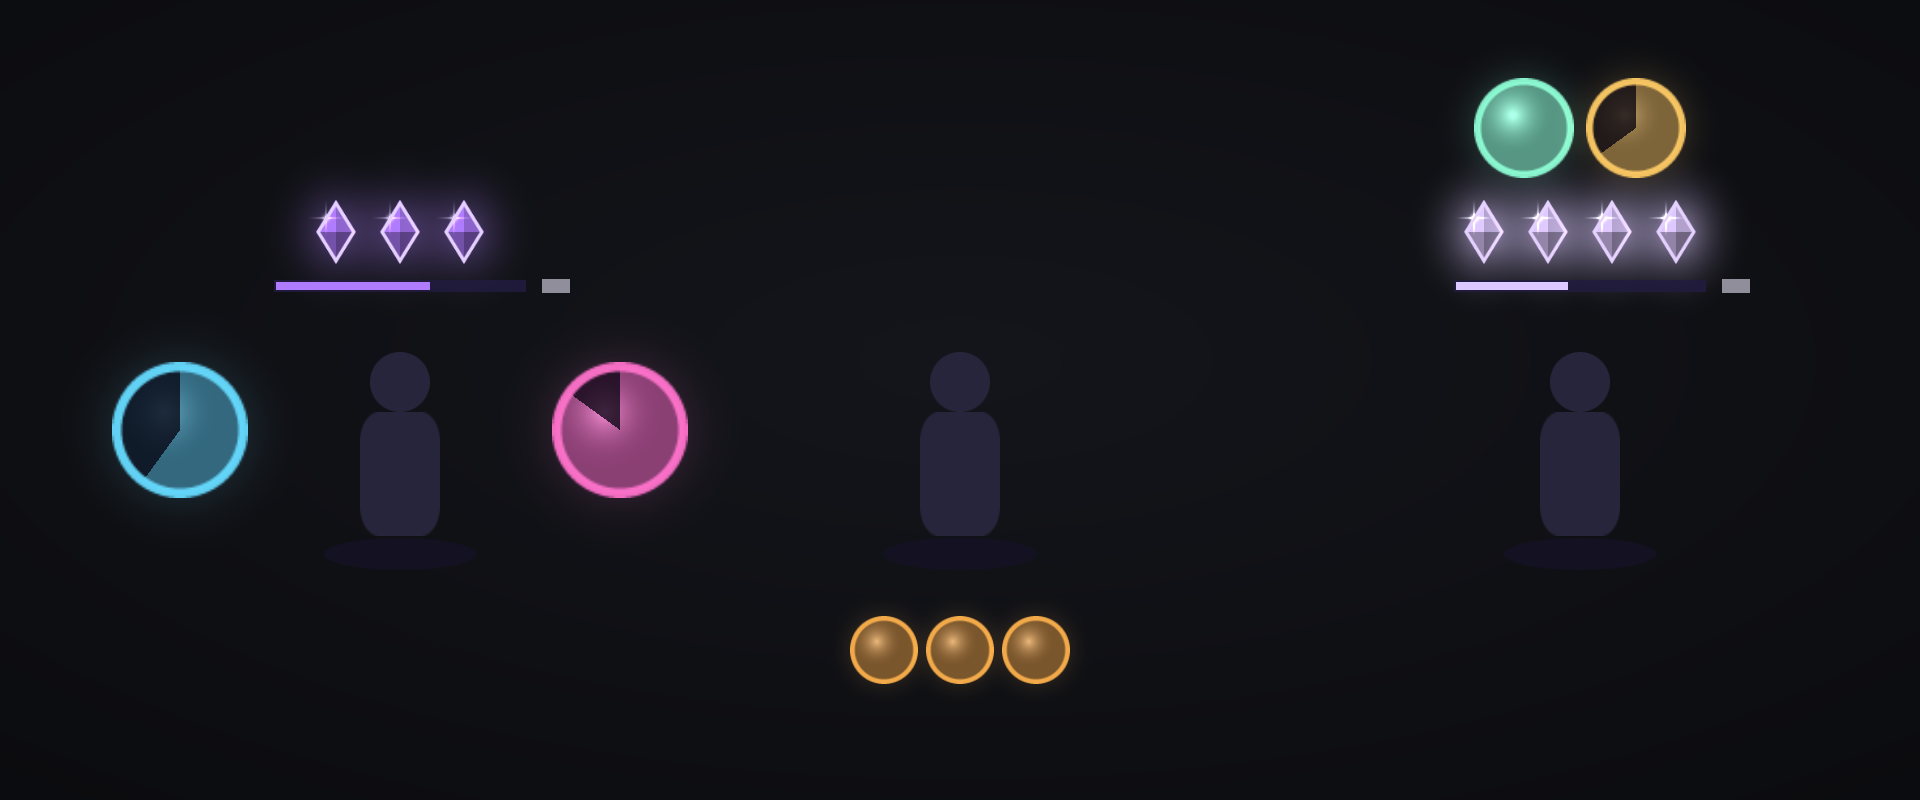
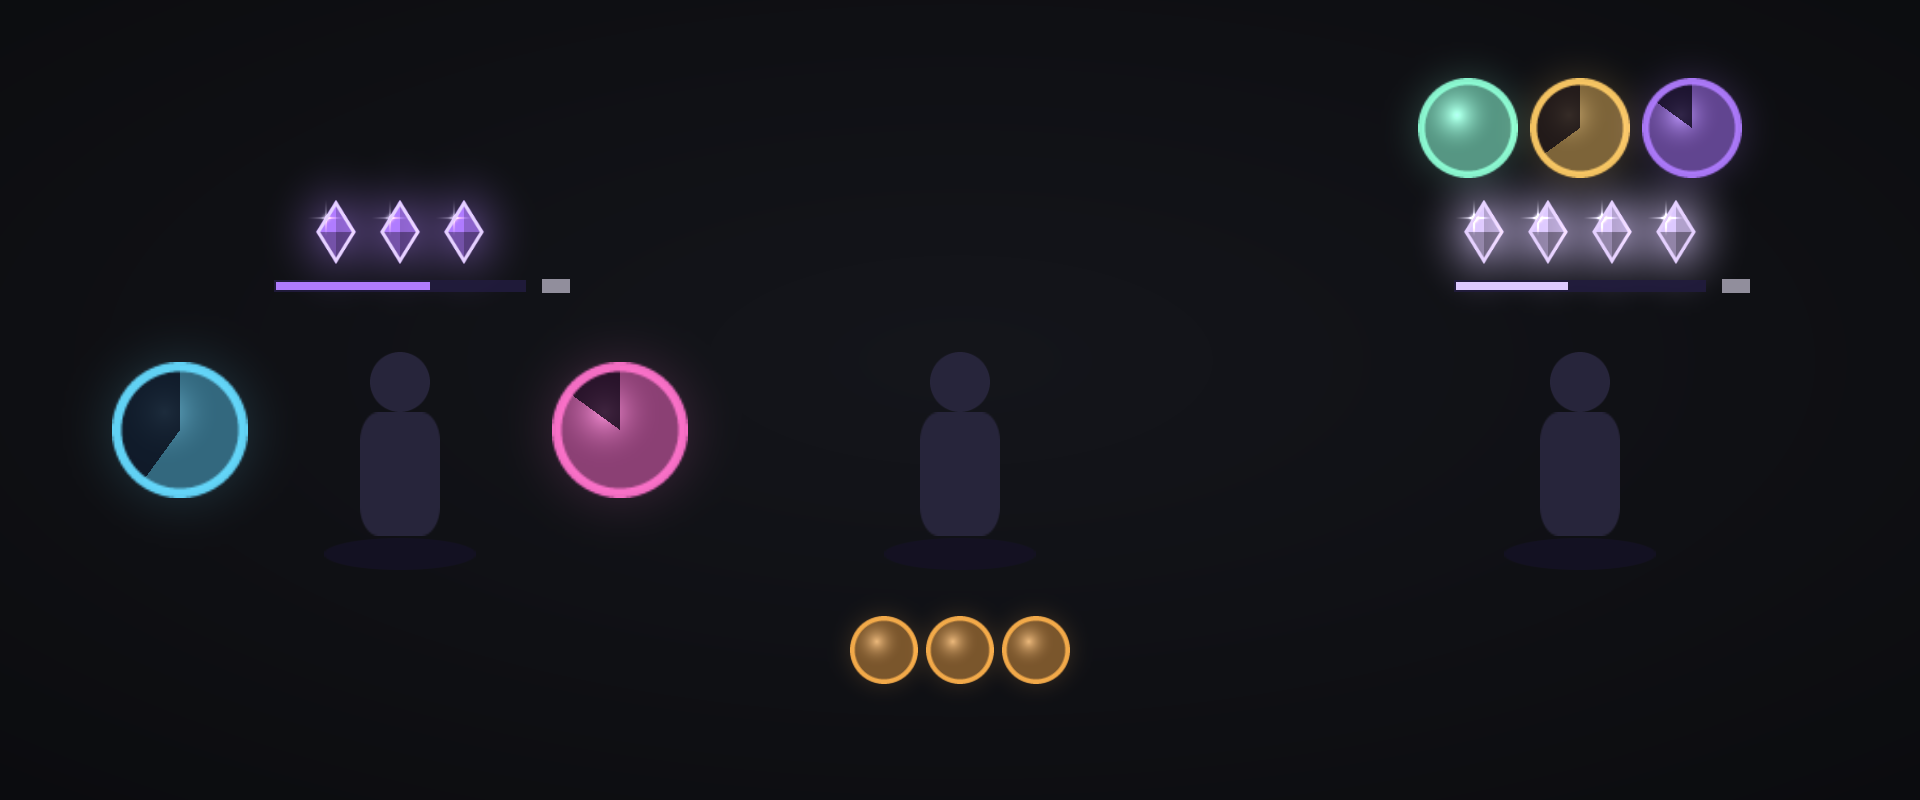
Arcanum 2.1.0: Arcane Power shown while active, sounds in the demo
- Arcane Power gets its icon above the charges, ringed in purple, with its
  time left, next to Presence of Mind and Eureka. The engine already
  tracked it; it now also keeps the HUD visible while it is up.
- The demo plays the proc sounds (it was silent), and shows Arcane Power.
  The "already announced" guard that follows a reset no longer mutes it.

Changed region(s): [[0.7188, 0.0938, 0.9062, 0.2188]]

diff --git a/tools/test/run_tests.py b/tools/test/run_tests.py
@@ -476,7 +476,7 @@ def main():
     check(f.S.stacks == 1 and len(shown) == 1 and all(c._points[1][5] > 100 for c in shown),
           "one charge: a crystal appears above the character")
     check(hud.bar._alpha == 1 and hud.barText._text in ("18 s", "17 s"), "below the crystals, the bar of their window and its seconds")
-    pom, eur = hud.pomIcon, hud.eurekaIcon
+    pom, eur, power = hud.pomIcon, hud.eurekaIcon, hud.powerIcon
     check(pom.on is False and pom._alpha == 0 and eur.on is False and eur._alpha == 0,
           "neither Presence of Mind nor Eureka: nothing above the charges")
     f.cast(EUREKA)
@@ -495,6 +495,14 @@ def main():
     check(eur.on is True and eur._points[1][4] == 0, "Eureka, still active, moves back to the centre")
     f.M.advance(7)
     check(not f.S.eureka.active and eur.on is False and eur._alpha == 0, "Eureka over: its icon goes away")
+    check(power.on is False and power._alpha == 0, "Arcane Power not cast: no icon")
+    f.cast(AP)
+    f.M.advance(0.4)
+    check(f.S.power.active and power.on is True and power._alpha > 0.9 and power.icon._tex == 130042
+          and power.cd._cd[2] == 15 and power._points[1][4] == 0 and power._points[1][5] > shown[0]._points[1][5],
+          "Arcane Power active: its icon shows above the charges, centered, with its 15 s")
+    f.M.advance(15.5)
+    check(not f.S.power.active and power.on is False and power._alpha == 0, "Arcane Power over: its icon goes away")
     played = lambda name: f.sound_files().count(name + ".ogg")
     check(played("burst") == 0, "no burst sound any more")
     f.M.proc("Barrage de projectiles", 400588)
@@ -539,16 +547,20 @@ def main():
     f.M.setCombat(False)
     f.run('Mock.auras = {}; Mock.fire("UNIT_AURA", "player", {})')
     f.slash("demo")
-    sides, charges, pom_seen, eur_seen = set(), set(), False, False
+    sides, charges, pom_seen, eur_seen, power_seen = set(), set(), False, False, False
+    demo_sounds = len(f.sound_files())
     for _ in range(240):
         f.M.advance(0.05)
         pom_seen = pom_seen or pom.on is True
         eur_seen = eur_seen or eur.on is True
+        power_seen = power_seen or power.on is True
         sides.update(k for k, b in (("clear", left), ("barrage", right)) if b.on)
         charges.add(f.S.stacks)
     check(sides == {"clear", "barrage"}, "the demo shows both procs, each on its side")
     check(charges == {0, 1, 2, 3, 4}, "the charges building up")
-    check(pom_seen and eur_seen, "Presence of Mind and Eureka")
+    check(pom_seen and eur_seen and power_seen, "Presence of Mind, Eureka and Arcane Power")
+    heard = f.sound_files()[demo_sounds:]
+    check("clear.ogg" in heard and "barrage.ogg" in heard, "the demo plays the sound of each proc")
     f.slash("demo")
     f.M.advance(0.5)
     check(not any(b.on for b in hud.procs.values()) and f.S.stacks == 0 and not any(c._shown for c in hud.crystals.values()),

diff --git a/tools/preview.py b/tools/preview.py
@@ -2,7 +2,7 @@
 """Preview of Arcanum's HUD: composites the addon's real textures following the layout in UI/Hud.lua.
 
 Three scenes: in combat (procs on either side of the character, charges above), out of combat (reminders
-below the character), and Presence of Mind and Eureka active.
+below the character), and the active buffs (Presence of Mind, Eureka, Arcane Power).
 
 This is not a game screenshot: spell icons and text are replaced by flat colour blocks.
 It is for judging shapes, colours and glows without launching WoW. No dependencies.
@@ -168,10 +168,11 @@ def scene(cx, cy, stacks=0, target=2, window=0.0, clear=None, barrage=None, pom=
         blit(None, cx, by, 126, 6, C["socket"], 0.90)
         blit(None, cx - 62 + 124 * window / 2, by, 124 * window, 4, col, 1)
         blit(None, cx + 62 + 16, by, 14, 7, mix(C["text"], C["ink"], 0.35), 0.9)   # seconds (flat block)
-    # Presence of Mind and Eureka active: their icons side by side, above the charges
+    # active buffs (Presence of Mind, Eureka, Arcane Power): their icons side by side, above the charges
     if pom:
-        round_icon(cx - 28, top - 17 - 23 - 12, 46, C["pom"], C["pom"], glow=0.50)
-        round_icon(cx + 28, top - 17 - 23 - 12, 46, C["power"], C["power"], glow=0.50, cooldown=0.35)
+        round_icon(cx - 56, top - 17 - 23 - 12, 46, C["pom"], C["pom"], glow=0.50)
+        round_icon(cx, top - 17 - 23 - 12, 46, C["power"], C["power"], glow=0.50, cooldown=0.35)
+        round_icon(cx + 56, top - 17 - 23 - 12, 46, C["arcane"], C["arcane"], glow=0.50, cooldown=0.15)
     # pre-combat reminders, below the character
     amber = (1.000, 0.700, 0.300)
     for i in range(reminders):
@@ -181,7 +182,7 @@ def scene(cx, cy, stacks=0, target=2, window=0.0, clear=None, barrage=None, pom=
 
 def main():
     background()
-    # in combat, two procs and three charges out of four; out of combat, three reminders; Presence of Mind and Eureka active
+    # in combat, two procs and three charges out of four; out of combat, three reminders; the three buffs active
     scene(200, 215, stacks=3, target=4, window=0.62, clear=0.6, barrage=0.85)
     scene(480, 215, reminders=3)
     scene(790, 215, stacks=4, target=4, window=0.45, pom=True)

diff --git a/README.md b/README.md
@@ -4,13 +4,13 @@ An Arcane Mage HUD for World of Warcraft: Forever. It shows your procs, your Arc
 
 ![Preview of the Arcanum HUD](docs/preview.png)
 
-*Preview built from the addon's own textures (the character is a silhouette, icons are flat colors, the zones sit closer together than in game, and the proc decoration, which is a game image, is not drawn). Left to right: in combat with two procs and charges, out of combat with three reminders, and Presence of Mind and Eureka active. In game: `/arc demo`.*
+*Preview built from the addon's own textures (the character is a silhouette, icons are flat colors, the zones sit closer together than in game, and the proc decoration, which is a game image, is not drawn). Left to right: in combat with two procs and charges, out of combat with three reminders, and active buffs above the charges. In game: `/arc demo`.*
 
 ## What it shows
 
 - **Left: Clearcasting. Right: Missile Barrage.** A large icon of the proc, ringed in its color (light blue or pink), with the time left as a number and a swipe that grows as the proc runs out. No proc, nothing on that side. While the proc is up, a **decoration** frames the icon on its outer side: the big rune-engraved arc Blizzard painted for the Arcane Missiles proc alert, purple for Missile Barrage and tinted blue for Clearcasting. When the proc fires, the light wave is an echo of that arc that expands and fades. The "Proc decoration" setting (or `/arc decor`) hides it; the wave is then a plain ring.
 - **Above: Arcane Blast charges**, only while you have some. One crystal per charge; at four charges, the maximum, they brighten. Below them, a bar empties over the 18 seconds of the charge window, with the seconds left; it turns red when the window is about to close.
-- **Above the charges: Presence of Mind and Eureka**, while they are active. The Presence of Mind icon, ringed in green, reminds you that your next spell is instant; the Eureka icon, ringed in gold, shows its time left. One active: centered; both: side by side.
+- **Above the charges: your active buffs.** Presence of Mind, ringed in green, reminds you that your next spell is instant; Eureka, ringed in gold, and Arcane Power, ringed in purple, show their time left. One active: centered; several: side by side.
 - **Below, out of combat: reminders.** The icon of whatever is missing before you pull: Arcane Intellect, your armor, and what is left to conjure: water, food, mana gem. Only conjured items count (bought water does not excuse you from conjuring), and for the gem it is the best one you can conjure that is expected. Nothing missing, nothing shown. While resting in a city, reminders wait until you leave or target an enemy.
 
 The HUD is centered on the screen, where your character stands. The "Spread" setting (or `/arc spread 150`) moves the four zones closer or further; `/arc lock` lets you drag the whole thing.

diff --git a/CHANGELOG.md b/CHANGELOG.md
@@ -1,5 +1,10 @@
 # Arcanum changelog
 
+## 2.1.0 — 2026-11-13
+
+- Arcane Power active: its icon, ringed in purple, shows above the charges with its time left, next to Presence of Mind and Eureka.
+- The demo (`/arc demo`) now plays the proc sounds, so you can hear your choices without waiting for a fight. It also shows Arcane Power.
+
 ## 2.0.0 — 2026-11-13
 
 - Arcanum now follows your game client's language. English is built in, French is fully translated, other clients show English. Spell names still come from the game, so procs and reminders work in every language.
